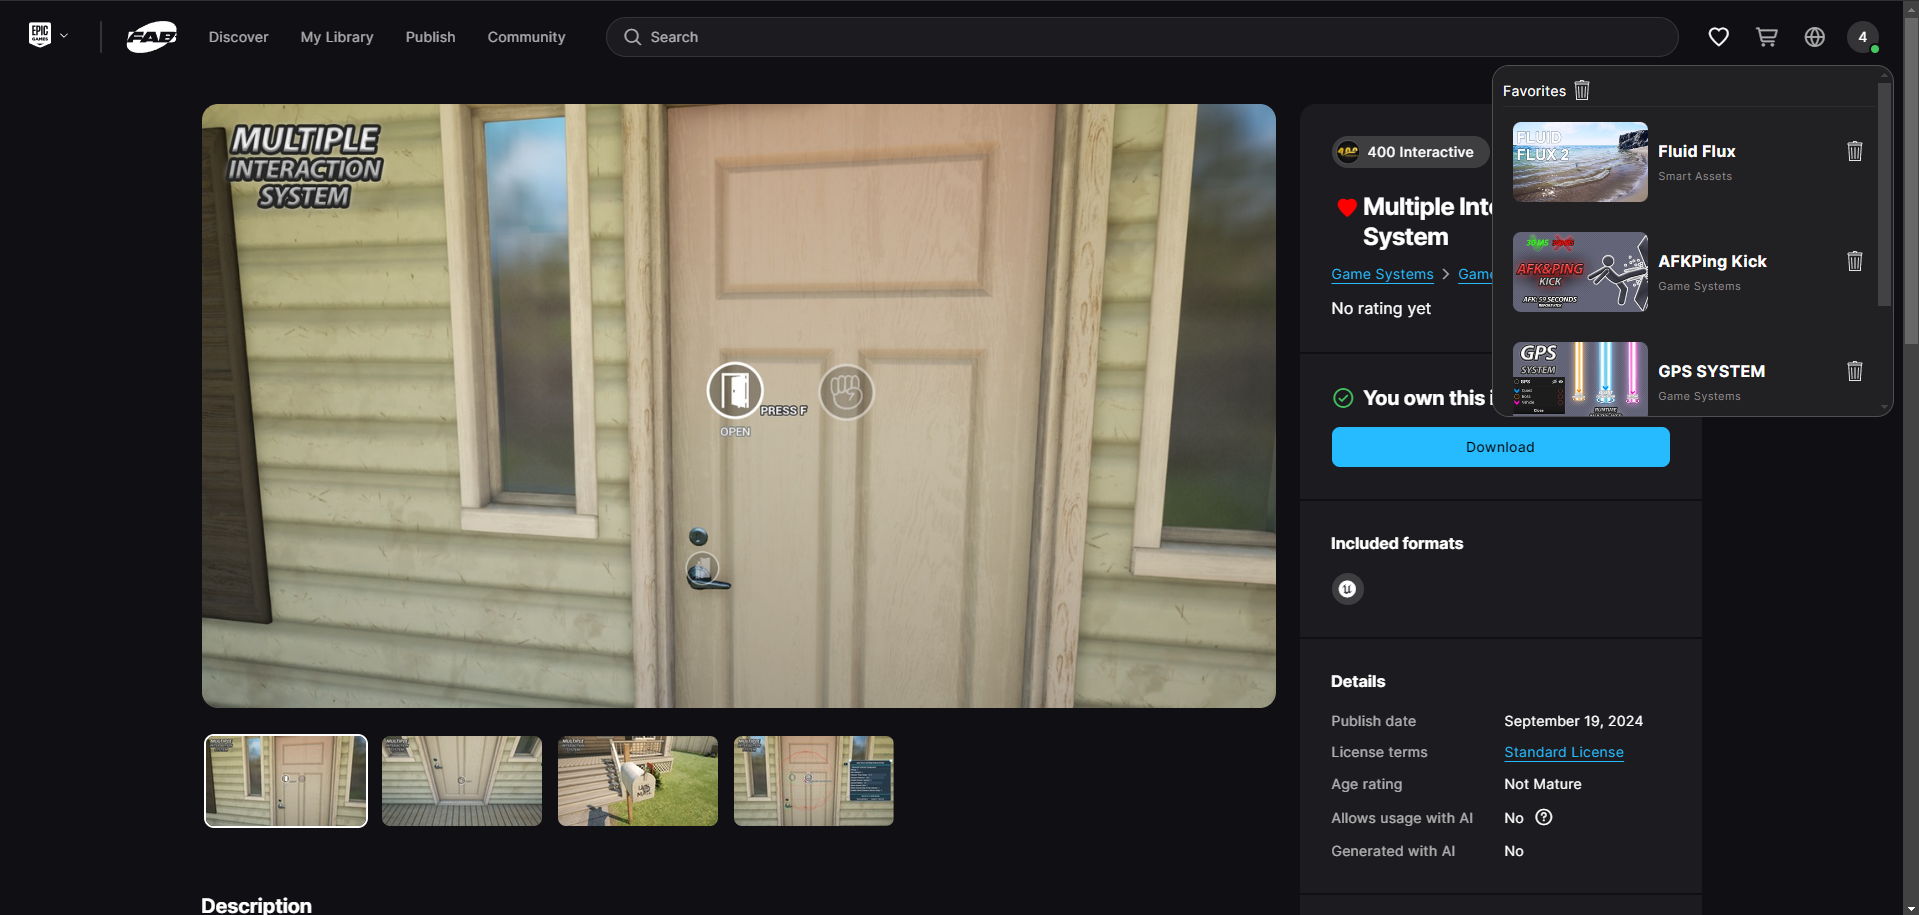
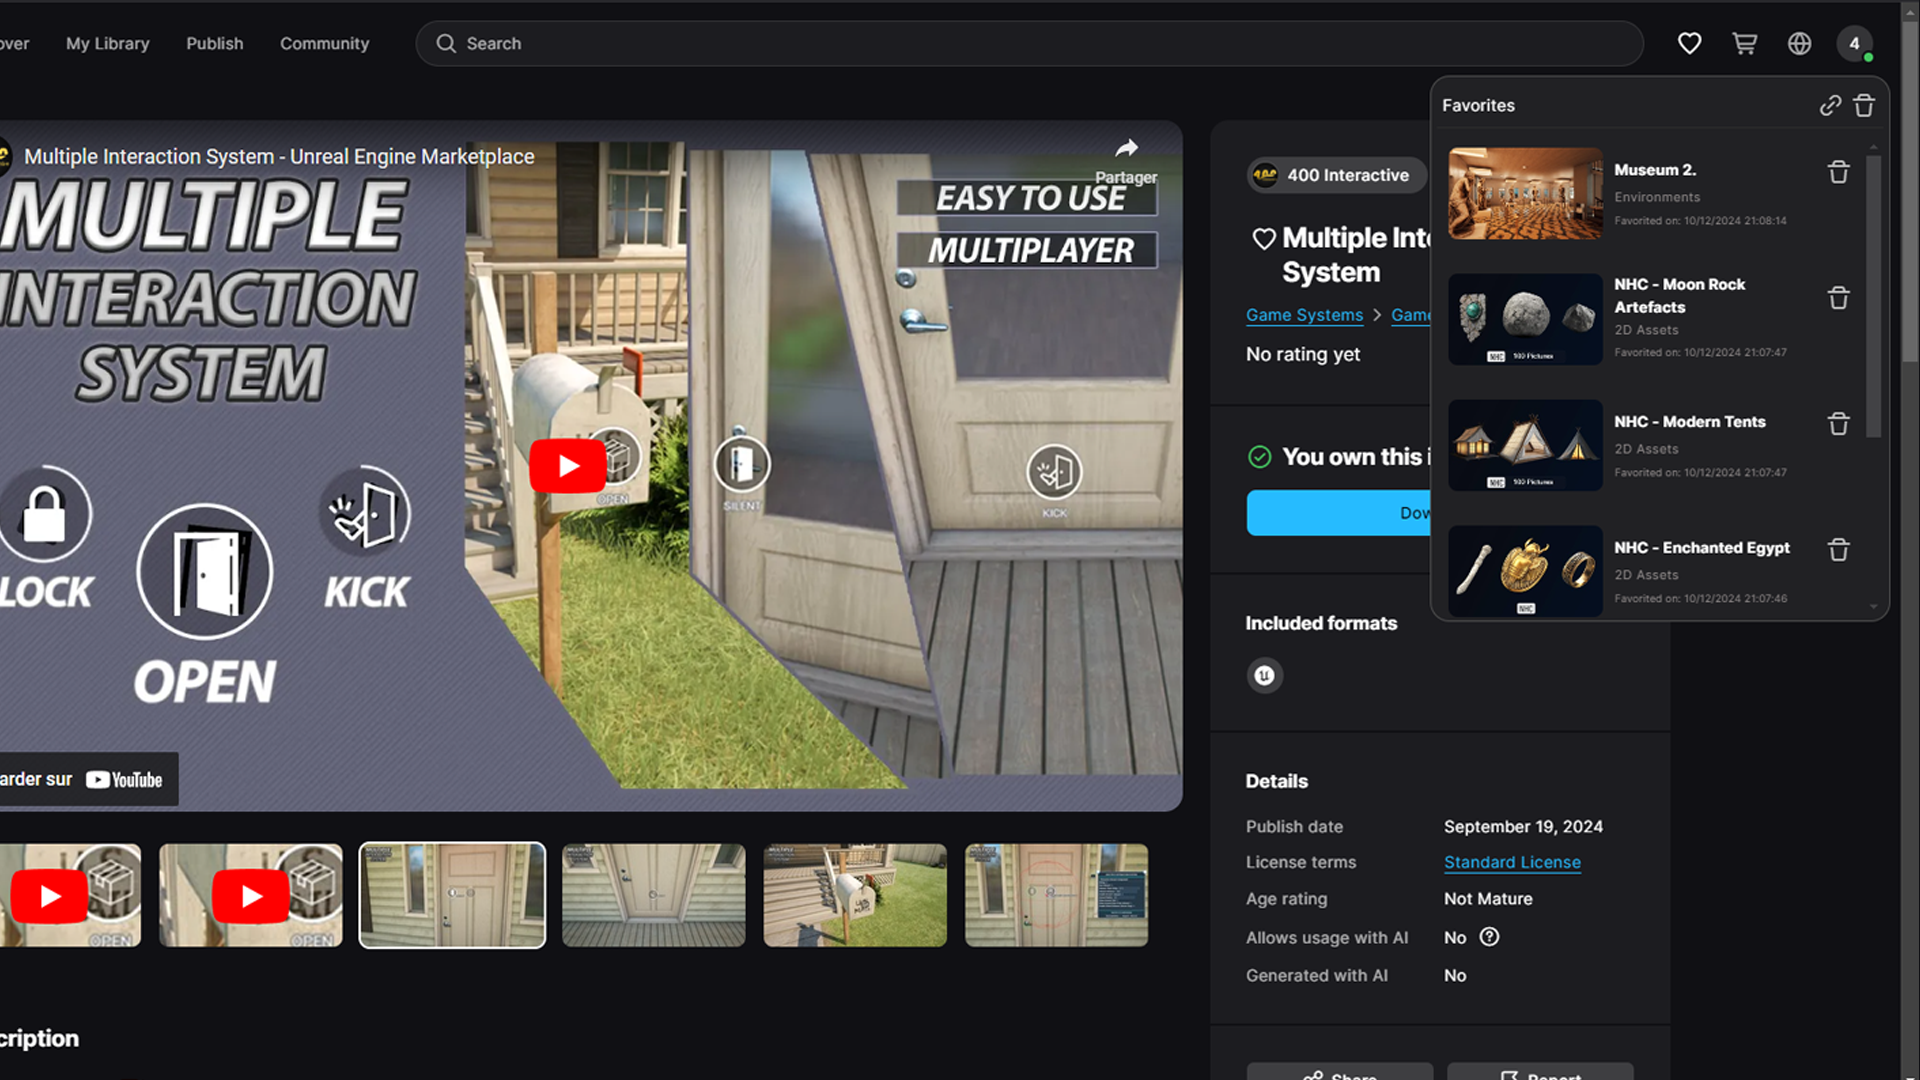
Version, Images and readme change

diff --git a/README.md b/README.md
@@ -2,16 +2,18 @@
 This extension adds new features and improves the user experience on the Fab website.
 
 ## Features
-- Favorites (Button on product page, Button on thumbnails, Button/Menu in navbar)
+- Favorites (Button on product page, Button on thumbnails, Button/Menu in navbar, Search bar)
 - Add To Cart button on thumbnails
 - Bring back Technical Details on file format
 - Auto-select License (Automatically selects the personal license, if this is not possible, the first license will be selected)
+- Video Player (Get videos from a product description to display directly in the carousel with other images)
 
 ## Images
-- Button on product page
+- Product page
 
 ![Add heart button on product](images/fab_extended_product.png)
 ![Technical Details](images/fab_extended_technicaldetails.png)
+![Video Player](images/fab_extended_videoplayer.png)
 
 - Button on thumbnails
   
